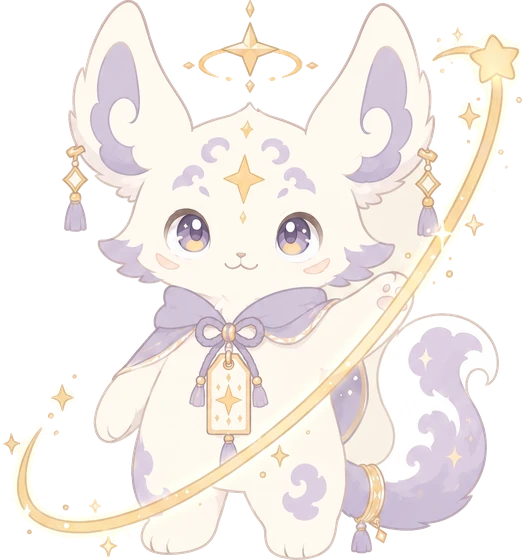
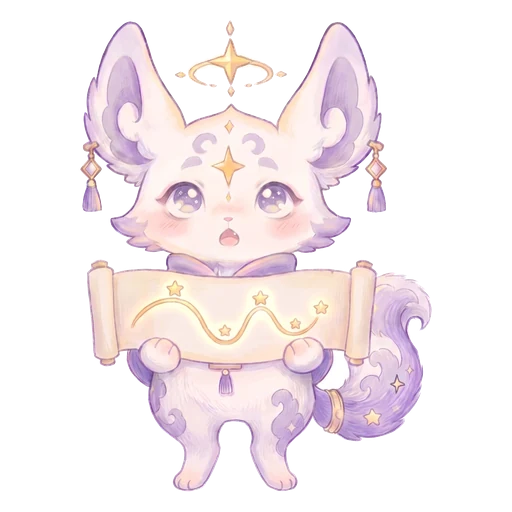
feat(fortune): 상품 일러스트 40컷 — 카드 배너 20 + 결과 컷아웃 20
히어로를 투명 컷아웃 한 장에서 **홈 캐러셀과 같은 full-bleed 그림 카드**로
바꾸고(사용자 요청), 제목·훅은 카드 밖 아래에 둔다.

- 카드 20컷 `public/fortune/card/*.webp` (896×672, ~59KB) — 랜딩 히어로
- 컷아웃 20컷 `public/fortune-hero-*.webp` (512², 투명, ~44KB) — 결과 화면.
  같은 소품·같은 표정이라 랜딩에서 결과로 그림이 이어진다
- 돌려쓰기 해소: 연애 3종·자기이해 3종·재물 2종·궁합 2종이 각자 그림을 갖는다
- 표정 14 다양 / 6 차분 — "가만히 들여다보는" 상품만 차분하게 남겼다

🔴 구 `-love/-self/-wealth/-career.webp` 는 참조 0 이 됐지만 지우지 않는다
(과거 공유 카드·캐시). `-good_days/-daily` 도 과거 리딩이 참조해 그대로.

생성 중 잡은 결함 2건: 올해연애가 책으로 나와 사용설명서와 충돌(→모래시계),
취업이직의 후광이 '빛나는 문'에 덮여 소실(→문 제거 후 재생성).

diff --git a/lib/fortune/hero.ts b/lib/fortune/hero.ts
@@ -1,23 +1,27 @@
 import type { FortuneType } from "./types";
 
-// 리포트 종류 → 플래그십 별콩이 히어로 일러스트(public/). 없는 종목은 기본 별콩이(byeolkong-joy).
-// 일부는 테마 공유(연애/재물/자기이해). higgsfield 생성 → 투명 컷아웃(webp).
+// 리포트 종류 → 결과 화면 히어로(투명 컷아웃 webp). 없는 종목은 기본 별콩이(byeolkong-joy).
+//
+// 🔴 2026-09-28 **종목별 전용화** — 이전엔 연애 3종·자기이해 3종·재물 2종·궁합 2종이 한 장을
+// 돌려썼다. 상품 설명 페이지를 훑을 때 같은 그림이 연달아 나오는 게 드러나 20컷을 새로 뽑았다.
+// 컷아웃은 상품 카드(fortuneCardSrc)와 **같은 소품·같은 표정**이라 랜딩→결과가 이어진다.
+// ⚠ `-love/-self/-wealth/-career.webp` 는 이제 참조 0 이지만 지우지 않는다(과거 공유 카드 캐시).
 const HERO: Partial<Record<FortuneType, string>> = {
   life_full: "/fortune-hero-life_full.webp",
   fact_bomb: "/fortune-hero-fact_bomb.webp",
   past_life: "/fortune-hero-past_life.webp",
   saju_full: "/fortune-hero-saju_full.webp",
   compat: "/fortune-hero-compat.webp",
-  compat_social: "/fortune-hero-compat.webp",
-  love_self: "/fortune-hero-love.webp",
-  love_year: "/fortune-hero-love.webp",
-  marriage: "/fortune-hero-love.webp",
-  wealth_vessel: "/fortune-hero-wealth.webp",
-  wealth_year: "/fortune-hero-wealth.webp",
-  nature_self: "/fortune-hero-self.webp",
-  talent_path: "/fortune-hero-self.webp",
-  user_manual: "/fortune-hero-self.webp",
-  career_timing: "/fortune-hero-career.webp",
+  compat_social: "/fortune-hero-compat_social.webp",
+  love_self: "/fortune-hero-love_self.webp",
+  love_year: "/fortune-hero-love_year.webp",
+  marriage: "/fortune-hero-marriage.webp",
+  wealth_vessel: "/fortune-hero-wealth_vessel.webp",
+  wealth_year: "/fortune-hero-wealth_year.webp",
+  nature_self: "/fortune-hero-nature_self.webp",
+  talent_path: "/fortune-hero-talent_path.webp",
+  user_manual: "/fortune-hero-user_manual.webp",
+  career_timing: "/fortune-hero-career_timing.webp",
   element_balance: "/fortune-hero-element_balance.webp",
   saju_report_card: "/fortune-hero-saju_report_card.webp",
   life_graph: "/fortune-hero-life_graph.webp",
@@ -35,4 +39,19 @@ const HERO: Partial<Record<FortuneType, string>> = {
 /** 종목별 플래그십 히어로 경로(없으면 null → 기본 별콩이 사용). */
 export function fortuneHeroSrc(type: FortuneType | null | undefined): string | null {
   return type ? (HERO[type] ?? null) : null;
+}
+
+// 상품 설명 페이지의 카드 배너(full-bleed 4:3). 홈 캐러셀과 같은 언어라 파일도 같은 규격(896×672).
+// 결과 화면 컷아웃(HERO)과 짝이며 소품·표정이 일치한다.
+const CARD_KEYS = new Set([
+  "compat", "compat_social", "love_self", "love_year", "marriage",
+  "nature_self", "talent_path", "user_manual", "element_balance", "life_full",
+  "wealth_vessel", "wealth_year", "career_timing",
+  "fact_bomb", "past_life", "saju_report_card", "life_graph",
+  "saju_full", "monthly", "saju_mbti",
+]);
+
+/** 상품 카드 배너 경로. 카드가 없는 종목(비활성·타로)은 null. */
+export function fortuneCardSrc(key: string | null | undefined): string | null {
+  return key && CARD_KEYS.has(key) ? `/fortune/card/${key}.webp` : null;
 }

diff --git a/components/fortune/landing/FortuneLandingHero.tsx b/components/fortune/landing/FortuneLandingHero.tsx
@@ -1,5 +1,8 @@
-// 상품 설명 페이지 히어로 — 일러스트·제목·칩·CTA. 서버 컴포넌트(상호작용은 CTA 하나뿐이라
-// 스크롤 이동을 a[href="#buy"] 로 처리한다 — 클라 번들을 늘리지 않는다).
+// 상품 설명 페이지 히어로 — 그림 카드 + 제목·훅·칩·CTA. 서버 컴포넌트(CTA 만 클라 섬).
+//
+// 카드 형태는 홈 캐러셀(HeroCarousel)과 같은 언어다: full-bleed 일러스트를 rounded 카드에
+// object-cover 로 채운다. 다만 캐러셀처럼 그림 위에 제목을 얹지 않고 **카드 밖 아래**에 둔다
+// (배치 B) — 상품명·후킹이 큰 글씨로 읽혀야 하는 지면이라서.
 import Image from "next/image";
 import Link from "next/link";
 import LandingCta from "./LandingCta";
@@ -7,7 +10,7 @@ import LandingCta from "./LandingCta";
 export default function FortuneLandingHero({
   title,
   hook,
-  heroSrc,
+  cardSrc,
   chips,
   ctaLabel,
   ctaHref = "#buy",
@@ -15,7 +18,8 @@ export default function FortuneLandingHero({
 }: {
   title: string;
   hook: string;
-  heroSrc: string;
+  /** 카드 배너(4:3 원본을 16:10 으로 crop). 없으면 카드 없이 제목부터. */
+  cardSrc: string | null;
   chips: string[];
   ctaLabel: string;
   ctaHref?: string;
@@ -23,7 +27,7 @@ export default function FortuneLandingHero({
   trackType: string;
 }) {
   return (
-    <header className="w-full bg-lilac-soft/40">
+    <header className="w-full">
       <div className="w-full max-w-md mx-auto px-5 pt-3">
         <Link
           href="/fortune"
@@ -36,9 +40,23 @@ export default function FortuneLandingHero({
         </Link>
       </div>
 
-      <div className="w-full max-w-md mx-auto px-5 pb-6 flex flex-col items-center">
-        <Image src={heroSrc} alt="" width={132} height={132} priority className="drop-shadow-lg" />
-        <h1 className="font-display text-[22px] text-eye-purple text-center mt-3 tracking-wide leading-snug">
+      {cardSrc && (
+        <div className="w-full max-w-md mx-auto px-5 mt-2.5">
+          <div className="relative w-full aspect-[16/10] rounded-2xl overflow-hidden">
+            <Image
+              src={cardSrc}
+              alt=""
+              fill
+              sizes="(max-width: 448px) 100vw, 448px"
+              className="object-cover"
+              priority
+            />
+          </div>
+        </div>
+      )}
+
+      <div className="w-full max-w-md mx-auto px-5 mt-4 flex flex-col items-center">
+        <h1 className="font-display text-[22px] text-eye-purple text-center tracking-wide leading-snug">
           {title}
         </h1>
         <p className="text-[13px] text-text-light text-center mt-2 leading-relaxed whitespace-pre-line">

diff --git a/app/fortune/compat-social/page.tsx b/app/fortune/compat-social/page.tsx
@@ -6,7 +6,7 @@ import { FORTUNE_CONFIG, FORTUNE_LENGTH_HINT } from "@/lib/fortune/types";
 import { fortuneOutline } from "@/lib/fortune/outline";
 import { FORTUNE_LANDING } from "@/data/fortune/landing";
 import { RELATED_SAJU } from "@/components/upsell/cross-cards";
-import { fortuneHeroSrc } from "@/lib/fortune/hero";
+import { fortuneCardSrc } from "@/lib/fortune/hero";
 import { productMetadata } from "@/lib/seo/metadata";
 
 const cfg = FORTUNE_CONFIG.compat_social;
@@ -25,7 +25,7 @@ export default function CompatSocialPage() {
       <FortuneLandingHero
         title={cfg.label}
         hook={copy.hook}
-        heroSrc={fortuneHeroSrc("compat_social") ?? "/byeolkong-main.png"}
+        cardSrc={fortuneCardSrc("compat_social")}
         chips={[`별 ${cfg.cost}개`, FORTUNE_LENGTH_HINT.compat_social ?? "", copy.minutes].filter(Boolean)}
         ctaLabel="두 사람 사주로 보기"
         trackType="compat_social"

diff --git a/app/fortune/compat/page.tsx b/app/fortune/compat/page.tsx
@@ -6,7 +6,7 @@ import { FORTUNE_CONFIG, FORTUNE_LENGTH_HINT } from "@/lib/fortune/types";
 import { fortuneOutline } from "@/lib/fortune/outline";
 import { FORTUNE_LANDING } from "@/data/fortune/landing";
 import { RELATED_SAJU } from "@/components/upsell/cross-cards";
-import { fortuneHeroSrc } from "@/lib/fortune/hero";
+import { fortuneCardSrc } from "@/lib/fortune/hero";
 import { productMetadata } from "@/lib/seo/metadata";
 
 const cfg = FORTUNE_CONFIG.compat;
@@ -25,7 +25,7 @@ export default function CompatPage() {
       <FortuneLandingHero
         title={cfg.label}
         hook={copy.hook}
-        heroSrc={fortuneHeroSrc("compat") ?? "/byeolkong-main.png"}
+        cardSrc={fortuneCardSrc("compat")}
         chips={[`별 ${cfg.cost}개`, FORTUNE_LENGTH_HINT.compat ?? "", copy.minutes].filter(Boolean)}
         ctaLabel="두 사람 사주로 보기"
         trackType="compat"

diff --git a/app/fortune/[type]/page.tsx b/app/fortune/[type]/page.tsx
@@ -9,7 +9,7 @@ import { FORTUNE_CONFIG, FORTUNE_LENGTH_HINT, type FortuneType } from "@/lib/for
 import { fortuneOutline, type LandingKey } from "@/lib/fortune/outline";
 import { FORTUNE_LANDING } from "@/data/fortune/landing";
 import { RELATED_SAJU } from "@/components/upsell/cross-cards";
-import { fortuneHeroSrc } from "@/lib/fortune/hero";
+import { fortuneCardSrc } from "@/lib/fortune/hero";
 
 export default async function FortuneProductPage({
   params,
@@ -32,7 +32,7 @@ export default async function FortuneProductPage({
       <FortuneLandingHero
         title={cfg.label}
         hook={copy.hook}
-        heroSrc={fortuneHeroSrc(type) ?? "/byeolkong-main.png"}
+        cardSrc={fortuneCardSrc(key)}
         chips={[`별 ${cfg.cost}개`, FORTUNE_LENGTH_HINT[type] ?? "", copy.minutes].filter(Boolean)}
         ctaLabel="이 사주로 보기"
         trackType={type}

diff --git a/app/fortune/saju-mbti/page.tsx b/app/fortune/saju-mbti/page.tsx
@@ -8,6 +8,7 @@ import FortuneLandingHero from "@/components/fortune/landing/FortuneLandingHero"
 import FortuneLandingSections from "@/components/fortune/landing/FortuneLandingSections";
 import { fortuneOutline } from "@/lib/fortune/outline";
 import { FORTUNE_LANDING } from "@/data/fortune/landing";
+import { fortuneCardSrc } from "@/lib/fortune/hero";
 
 function firstParam(v: string | string[] | undefined): string | undefined {
   return typeof v === "string" ? v : undefined;
@@ -77,7 +78,7 @@ export default async function SajuMbtiPage({
       <FortuneLandingHero
         title="사주 MBTI"
         hook={copy.hook}
-        heroSrc="/byeolkong-main.png"
+        cardSrc={fortuneCardSrc("saju_mbti")}
         chips={["무료", "12문항", copy.minutes]}
         ctaLabel="테스트 시작하기"
         ctaHref="/fortune/saju-mbti?start=1"
